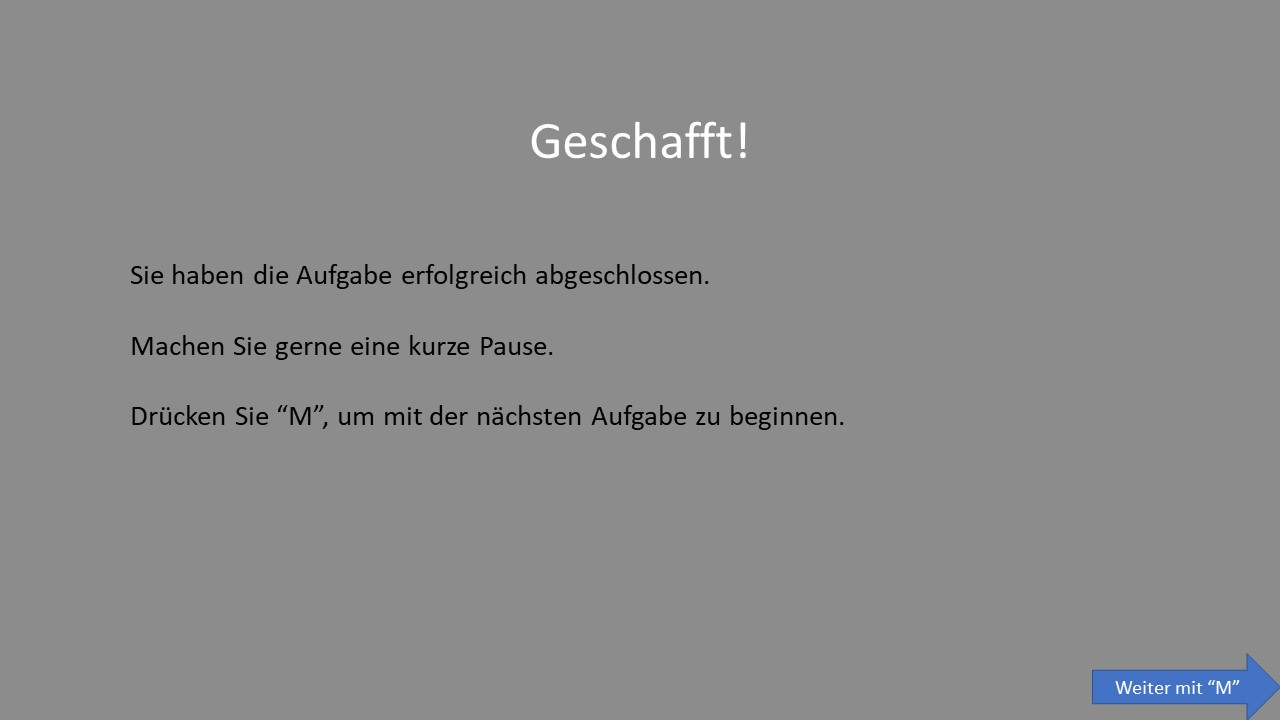
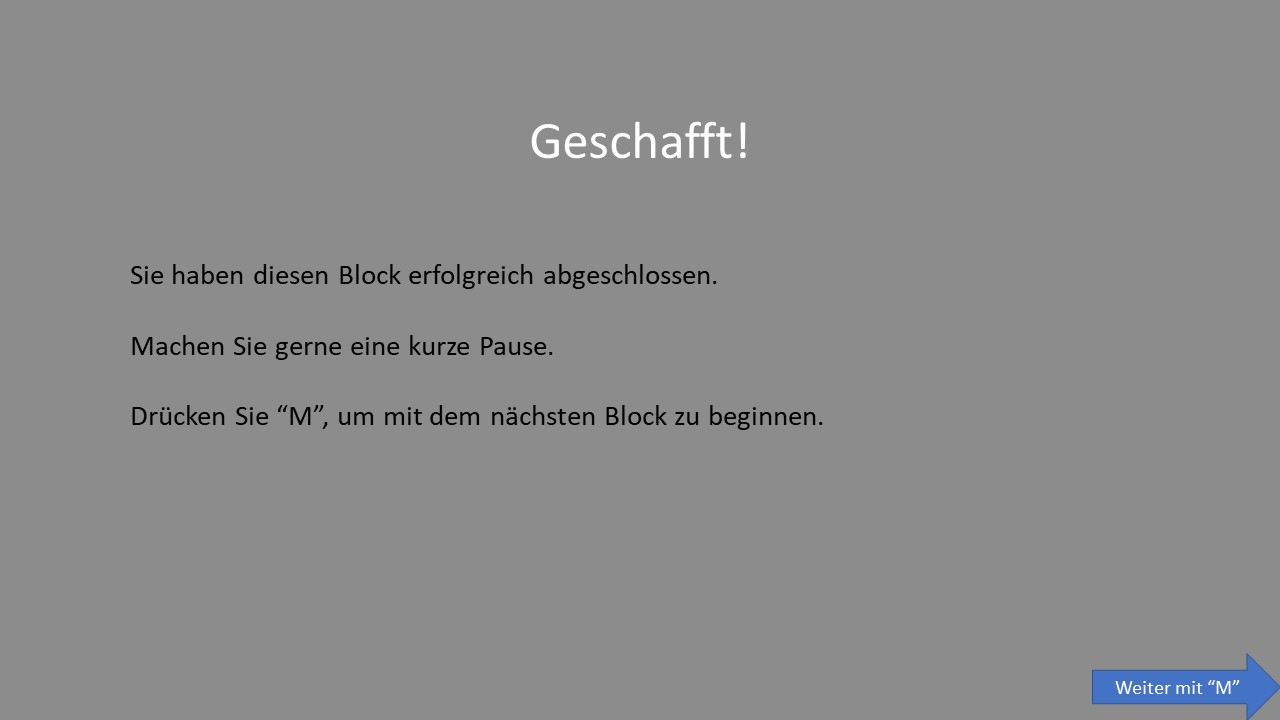
allow response oddball

Changed region(s): [[0.375, 0.55, 0.6562, 0.6111], [0.2188, 0.3667, 0.5625, 0.3972]]

diff --git a/oddball_task.m b/oddball_task.m
@@ -63,18 +63,18 @@ displayInstruction(expinfo, expinfo.InstFolder, 'welcome')
 
 %% Experimental Blocks
 blocks = struct();
-blocks.block_num = 1:2;
+blocks.block_num = 1:4;
 blocks.n_targets = zeros(1, max(blocks.block_num)) - 2;
 blocks.response = zeros(1, max(blocks.block_num)) - 2;
 blocks.rt = zeros(1, max(blocks.block_num)) - 2;
 blocks.acc = zeros(1, max(blocks.block_num)) - 2;
 
 if test_run
-    blocks.n_practice_trials = [1, 1];
-    blocks.n_exp_trials = [1, 1];
+    blocks.n_practice_trials = [1, 0, 1, 0];
+    blocks.n_exp_trials = [1, 1, 1, 1];
 else
-    blocks.n_practice_trials = [10, 10];
-    blocks.n_exp_trials = [10, 10];
+    blocks.n_practice_trials = [10, 0, 10, 0];
+    blocks.n_exp_trials = [10, 10, 10, 10];
 end
 
 expinfo.blocks = blocks;
@@ -96,16 +96,19 @@ for block_num = start_from:max(expinfo.blocks.block_num)
     ExpTrials = makeTrials(trial_mat, expinfo, block_num);
 
     if n_practice_trials > 0
+        repeat_practice = 1;
+
         PracTrials = makeTrials(practice_mat, expinfo, block_num);
+    else
+        repetition_practice = 0;
     end
     
-    repeat_practice = 1;
     repetition_num = 1;
 
     %% Practice Blocks
     while repeat_practice
         % Show instruction Slide
-        displayInstruction(expinfo, expinfo.InstFolder, 'instruction');
+        displayInstruction(expinfo, expinfo.InstFolder, 'instructions_resp_c');
     
         % Loop through practice trials
         setMarker(expinfo, expinfo.Marker.PracStart)
@@ -125,8 +128,9 @@ for block_num = start_from:max(expinfo.blocks.block_num)
         setMarker(expinfo, expinfo.Marker.PracEnd)
         
         % Show instruction Slide
-        last_response = displayInstruction(expinfo, expinfo.InstFolder, 'instruction', 1);
-        last_response = 1;
+        last_response = displayInstruction(expinfo, expinfo.InstFolder, 'instructions_resp_c', 1);
+        
+        %last_response = 1;
         if last_response == 9
             practice_mat = zeros(n_practice_trials, 1);
     

diff --git a/functions/getResponseOddball.m b/functions/getResponseOddball.m
@@ -32,13 +32,23 @@ function [ACC, response, correct, RT] = getResponseOddball(expinfo, Trial, expTr
             % Evaluate the response
             if strcmp(response, correct)
                 ACC = 1;
-                setMarker(expinfo, expinfo.Marker.CorrRespProbe); % Send correct response marker
+                if Trial(expTrial).isTarget
+                    setMarker(expinfo, expinfo.Marker.CorrRespTarget); % Send correct response marker
+                else
+                    setMarker(expinfo, expinfo.Marker.CorrRespNonTarget); % Send correct response marker
+                end
 
                 RT = time - start; % Calculate reaction time
                 break; % Exit the loop
             elseif ismember(response, [Trial(expTrial).targetKey, Trial(expTrial).nonTargetKey]) & ~strcmp(response, correct)
                 ACC = 0;
-                setMarker(expinfo, expinfo.Marker.IncorrRespProbe);
+
+                if Trial(expTrial).isTarget
+                    setMarker(expinfo, expinfo.Marker.IncorrRespTarget); % Send incorrect response marker
+                else
+                    setMarker(expinfo, expinfo.Marker.IncorrRespNonTarget); % Send incorrect response marker
+                end
+
                 RT = time - start; % Calculate reaction time
                 break; % Exit the loop
             else
@@ -51,7 +61,7 @@ function [ACC, response, correct, RT] = getResponseOddball(expinfo, Trial, expTr
     if response == -2
         ACC = -2; % Indicate timeout
         RT = expinfo.MaxRT; % Default reaction time to max allowed
-        setMarker(expinfo, expinfo.Marker.IncorrRespProbe); % Send incorrect response marker
+        setMarker(expinfo, expinfo.Marker.Miss); % Send incorrect response marker
     elseif wrongkey
         ACC = -3; % Indicate wrong key press
     end

diff --git a/functions/DisplayStandardTrial.m b/functions/DisplayStandardTrial.m
@@ -34,7 +34,7 @@ next_flip = getAccurateFlip(expinfo.window,Trial(expTrial).time_memset,Trial(exp
 
 if Trial(expTrial).hasResponse        
     % Get Answer from participant
-    [ACC, response, correct, RT] = getResponseOddball(expinfo, is_target);
+    [ACC, response, correct, RT] = getResponseOddball(expinfo, Trial, expTrial);
     
     % Assign values to dynamically constructed field names
     Trial(expTrial).oddball_acc = ACC;
@@ -43,8 +43,24 @@ if Trial(expTrial).hasResponse
     Trial(expTrial).oddball_response = response;
     Trial(expTrial).oddball_correct = correct;
 
-    if Trial(expTrial).(field_rt) < expinfo.MinRT
-        WaitSecs(expinfo.MinRT-Trial(expTrial).(field_rt));
+    if Trial(expTrial).oddball_rt < expinfo.MinRT
+        WaitSecs(expinfo.MinRT-Trial(expTrial).oddball_rt);
+    end
+
+    if isPractice == 1 % Show feedback in practice trials
+        clearScreen(expinfo);
+        if ACC == 1
+        Trial(expTrial).time_feed = TextCenteredOnPos(expinfo,'Richtig',0.5*expinfo.maxX,0.5*expinfo.maxY,expinfo.Colors.green, next_flip);
+        elseif ACC == 0
+            Trial(expTrial).time_feed= TextCenteredOnPos(expinfo,'Falsch',0.5*expinfo.maxX,0.5*expinfo.maxY,expinfo.Colors.red, next_flip);
+        elseif ACC == -2
+            Trial(expTrial).time_feed= TextCenteredOnPos(expinfo,'zu langsam',0.5*expinfo.maxX,0.5*expinfo.maxY,expinfo.Colors.black, next_flip);
+        elseif ACC == -3
+        Trial(expTrial).time_feed= TextCenteredOnPos(expinfo,'unerlaubte Taste',0.5*expinfo.maxX,0.5*expinfo.maxY,expinfo.Colors.red, next_flip);
+        end
+        next_flip = getAccurateFlip(expinfo.window,Trial(expTrial).time_feed,expinfo.FeedbackDuration);
+
+        clearScreen(expinfo, next_flip)
     end
     clearScreen(expinfo);
 else

diff --git a/functions/makeTrials.m b/functions/makeTrials.m
@@ -10,7 +10,7 @@ function [Trial] = makeTrials(trial_matrix, expinfo, block_num)
         Trial(trial).isTarget = trial_matrix(trial, 1);
         Trial(trial).targetKey = expinfo.targetKey;
         Trial(trial).nonTargetKey = expinfo.nonTargetKey;
-        Trial(trial).hasResponse = 0;
+        Trial(trial).hasResponse = 1;
         %Trial(trial).ISI(i) = expinfo.MinISIduration+rand(1)*expinfo.ISIjitter;
         Trial(trial).StimDuration = expinfo.StimDuration+rand(1)*expinfo.Stimjitter;
         Trial(trial).ITI = expinfo.MinITIduration+rand(1)*expinfo.ITIjitter;
